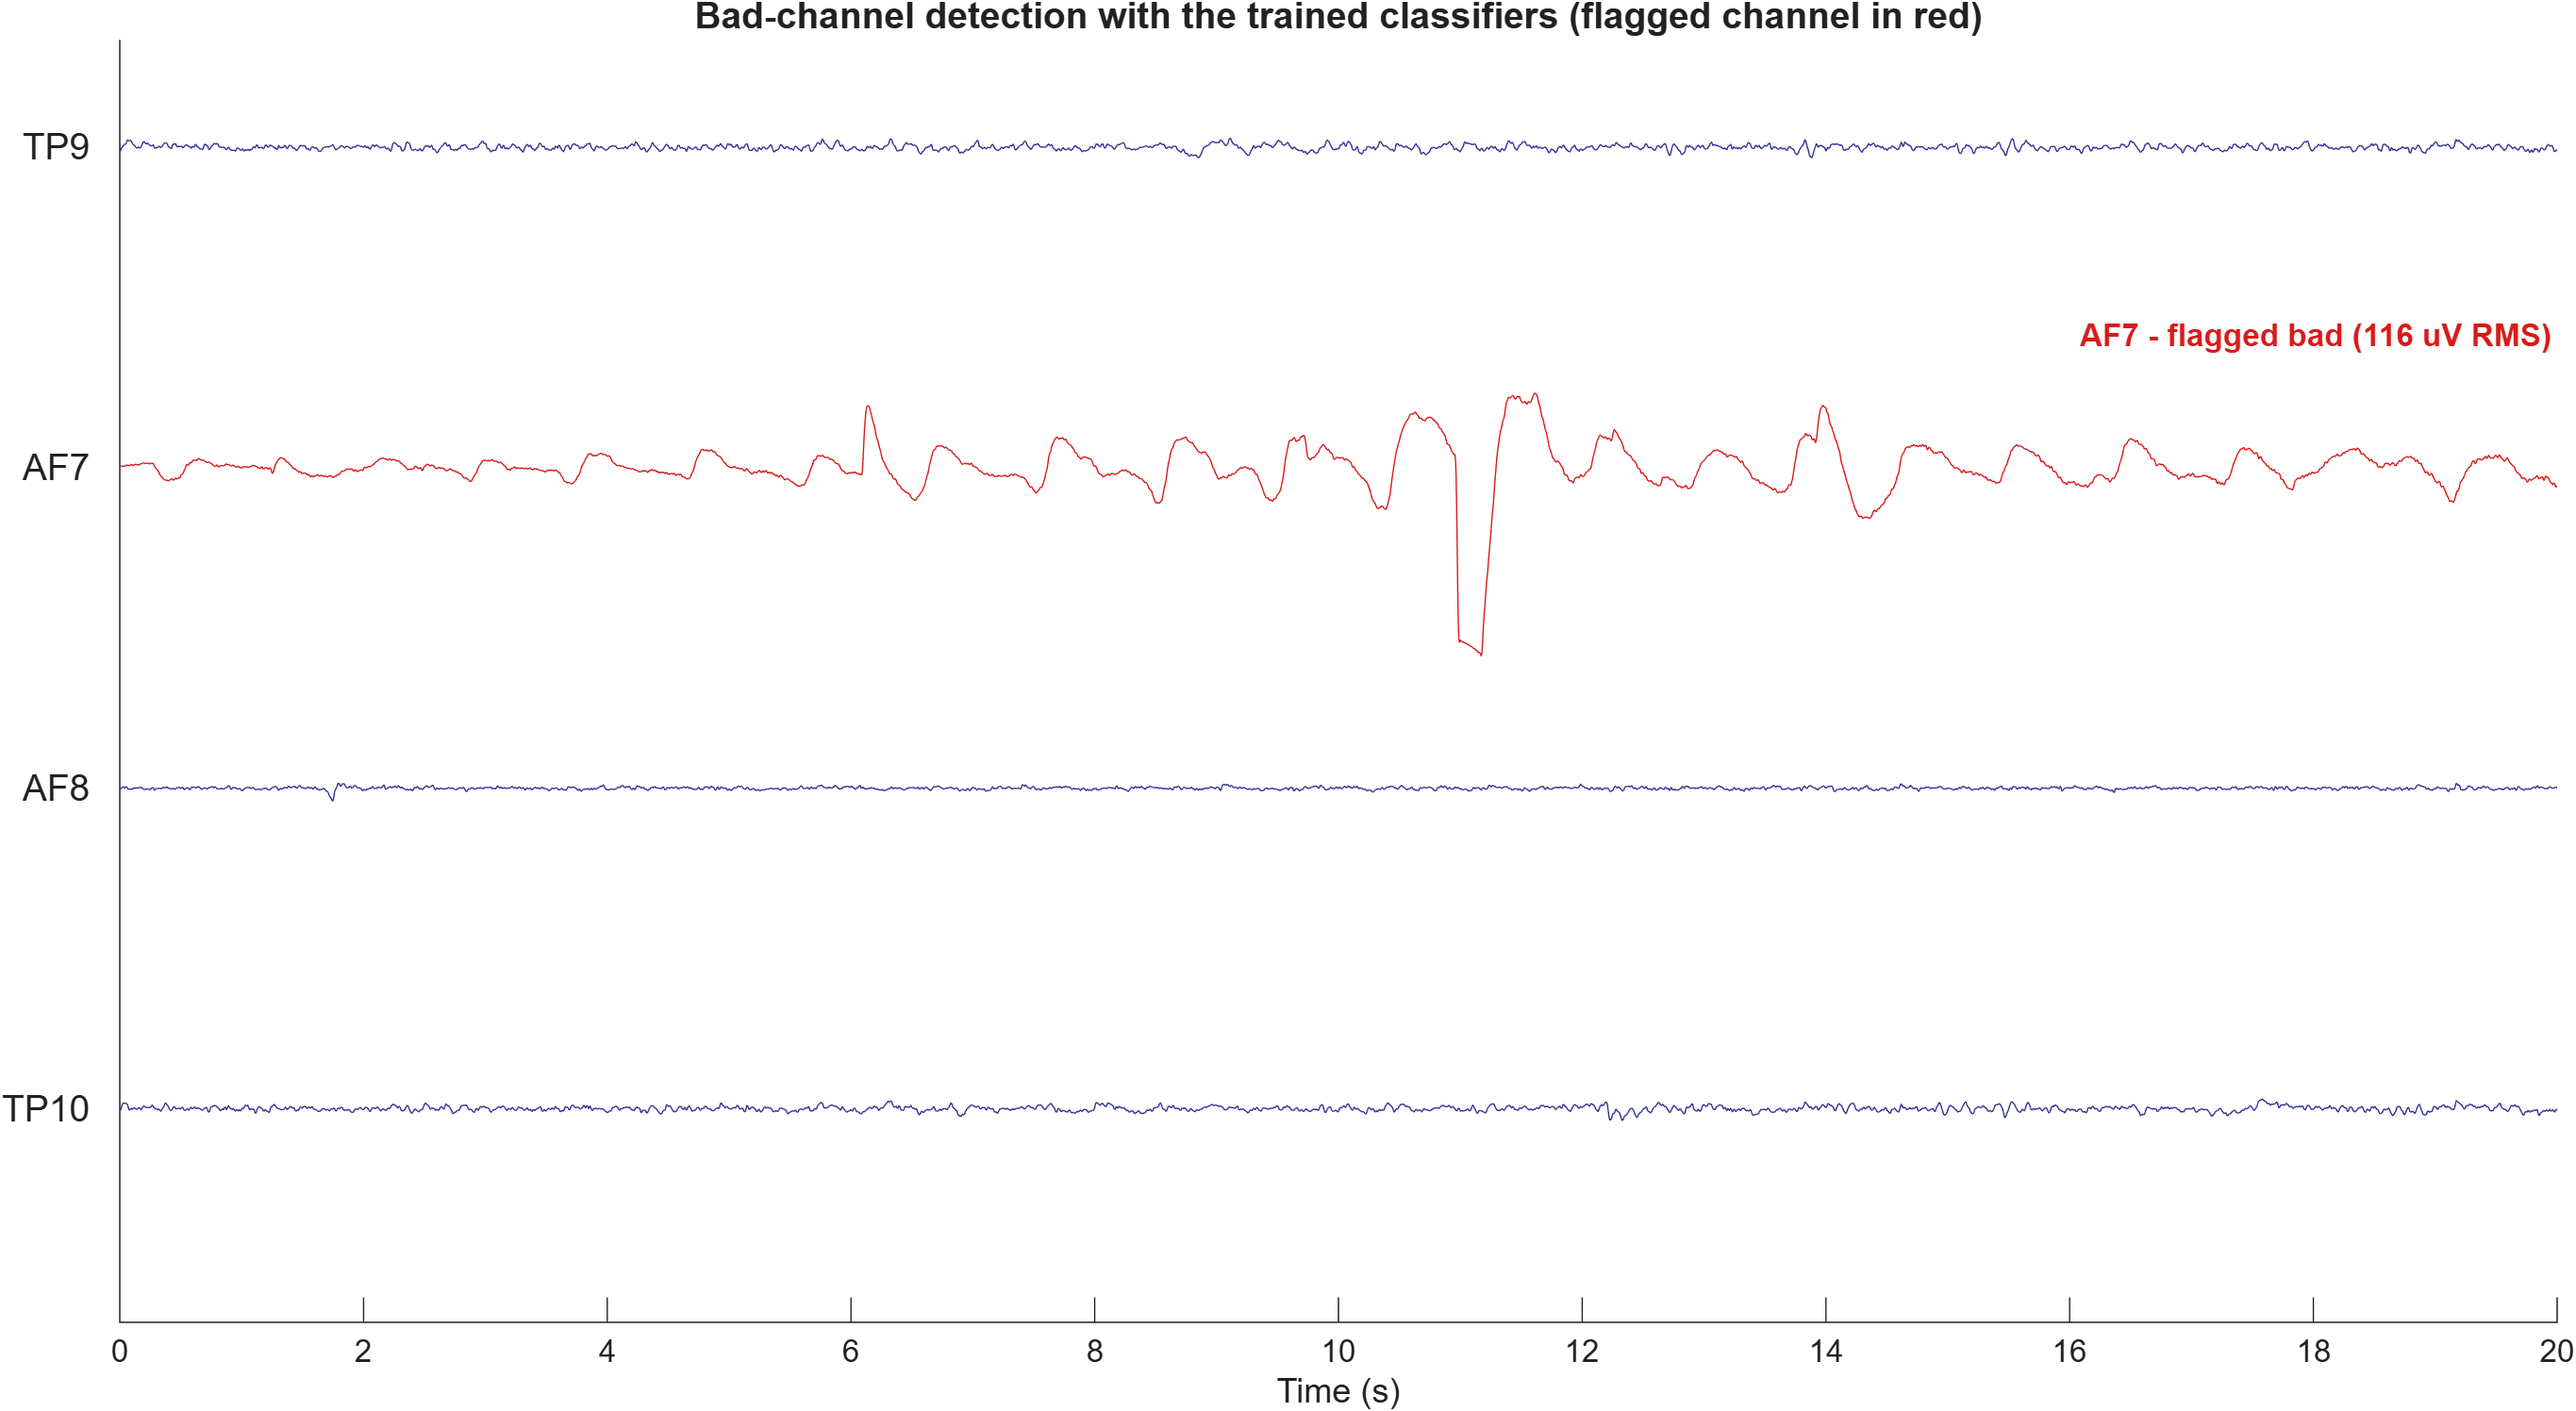
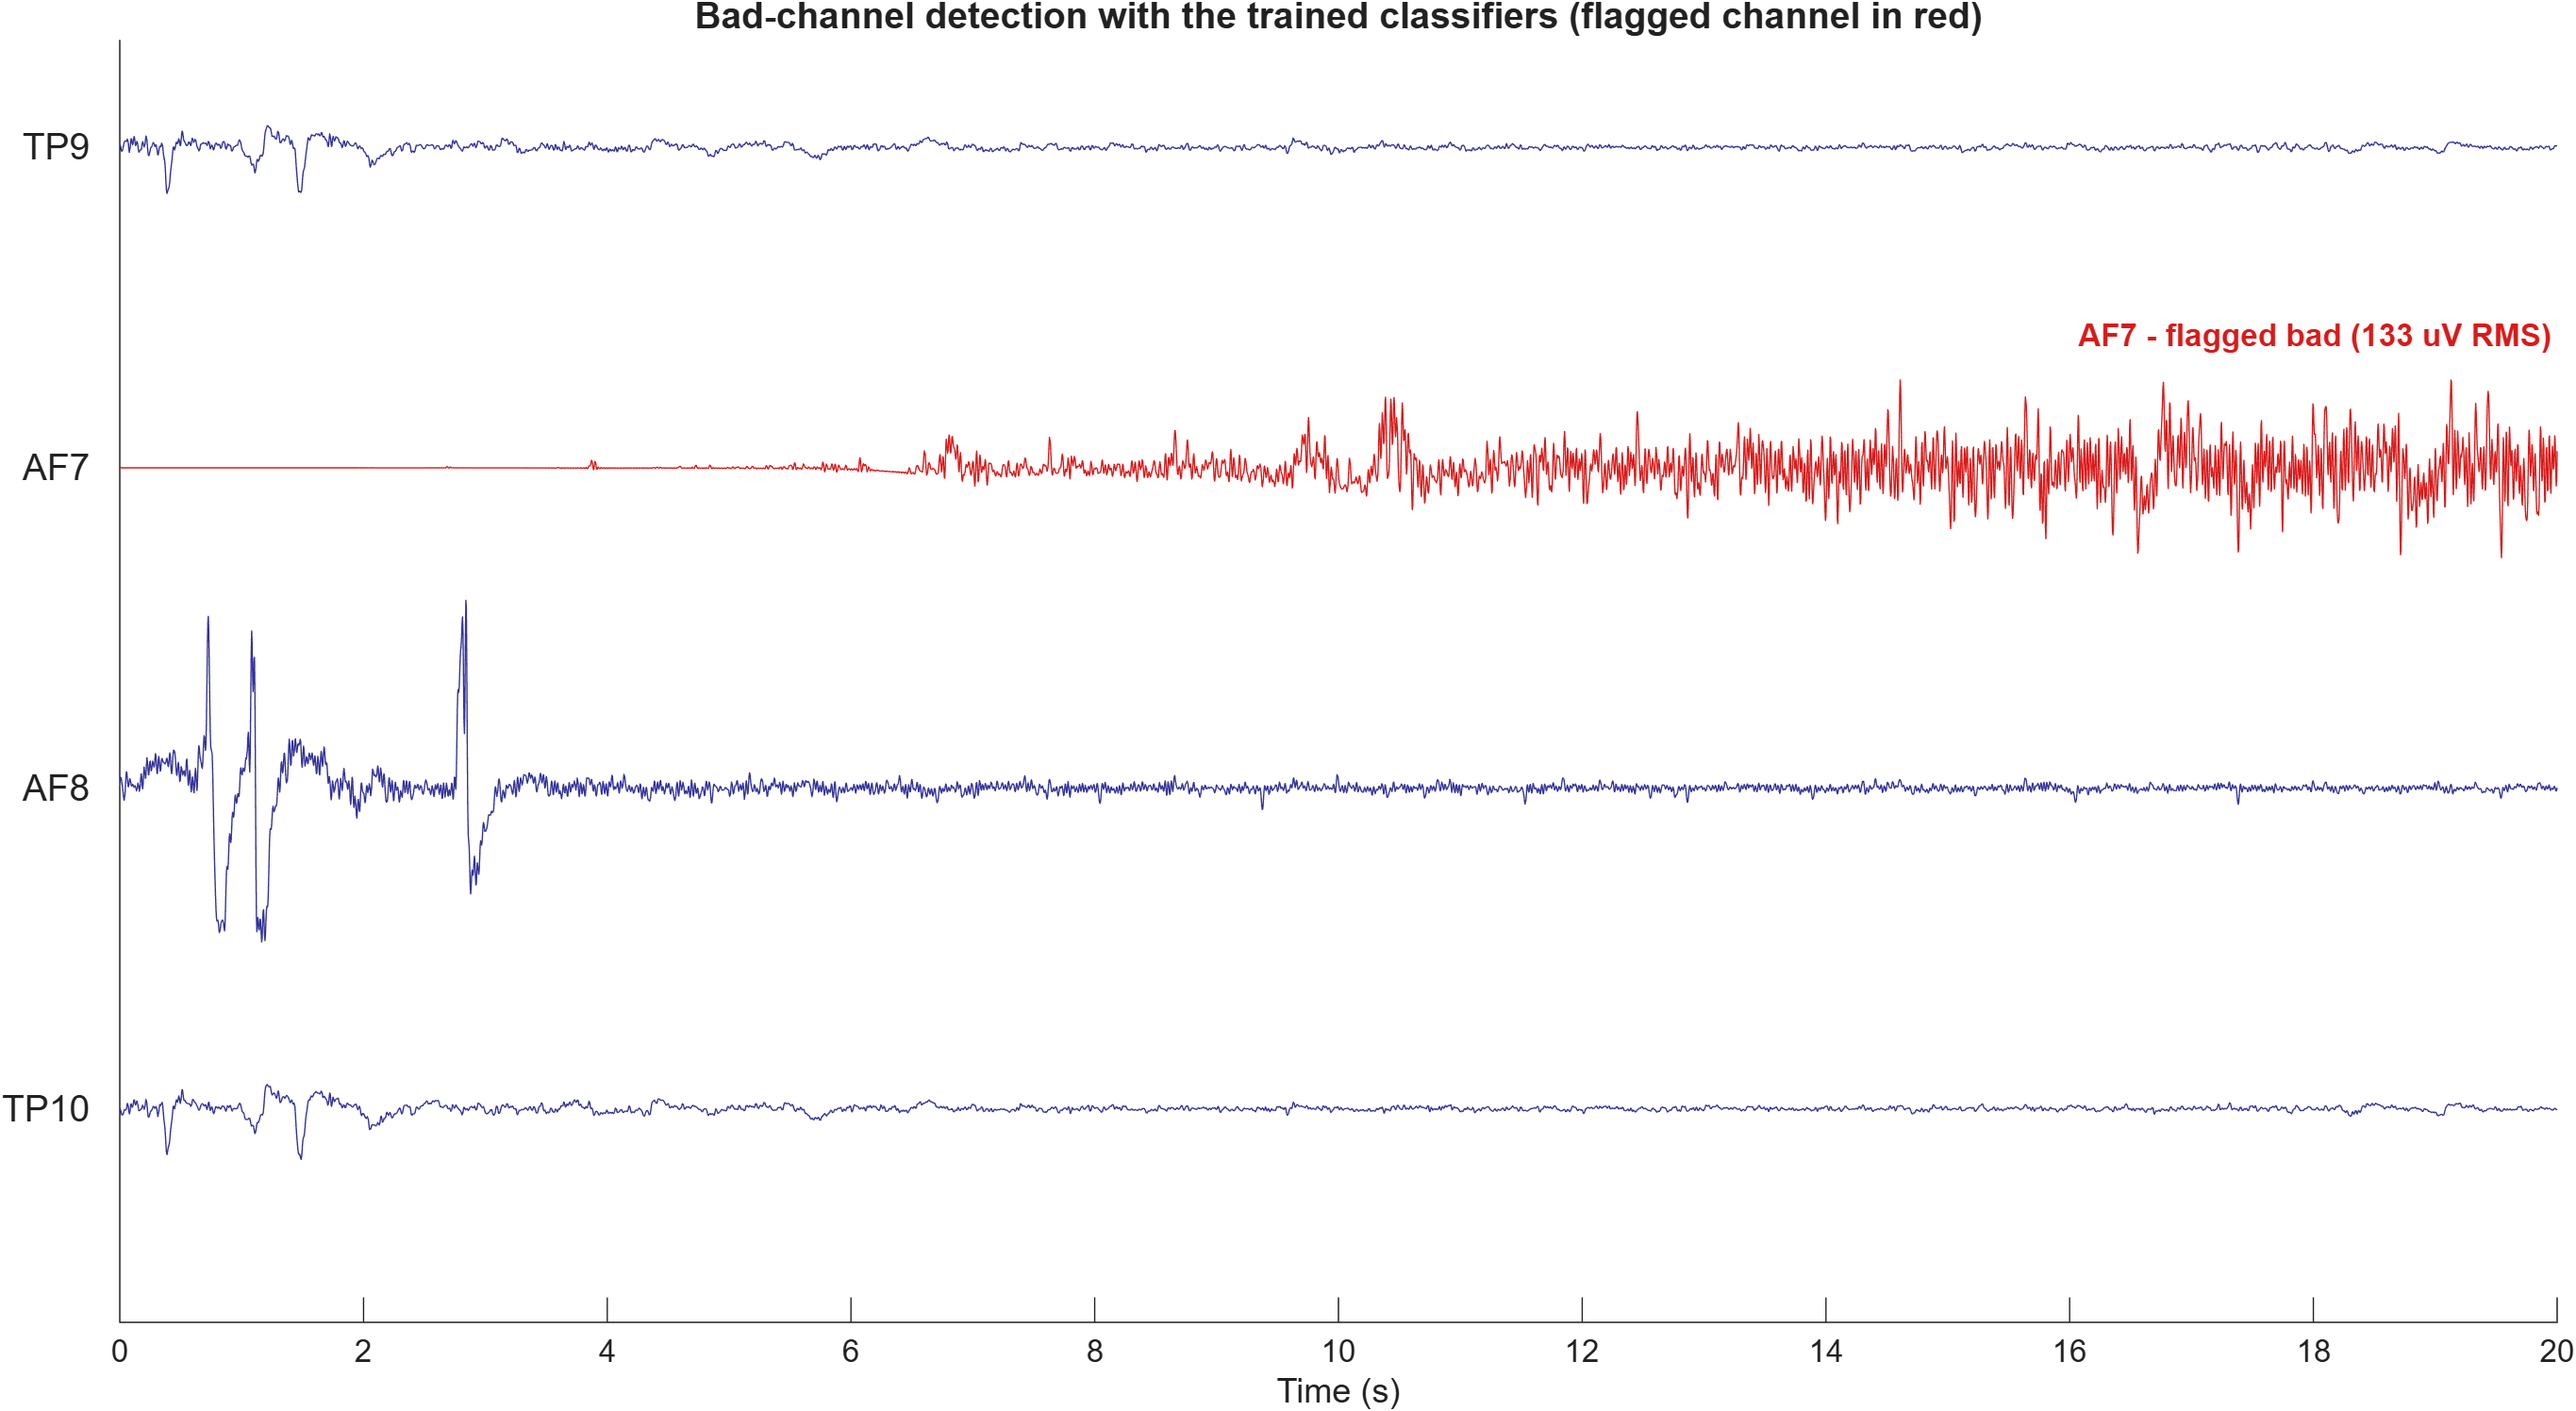
Example figure: swap to c5866c8aa5 recording (AF7 133 uV RMS vs 11 uV TPs)

diff --git a/README.md b/README.md
@@ -79,7 +79,7 @@ I manually labeled 3,000 30-second EEG segments recorded with MUSE headsets as g
 
 Flagged channels are reported, not removed automatically: check them visually (e.g. Plot > Channel data scroll; the classifiers run on the data band-pass filtered 1-45 Hz on the fly (the training filter, with a 45 Hz low-pass that excludes European 50 Hz line noise), the same filter as used for training), remove the channels you confirm are bad (e.g. `EEG = pop_select(EEG, 'nochannel', {'AF7'});`), and re-run or re-reference as needed.
 
-Example output on a real eyes-open rest recording (Muse IDL study): the AF7 channel (red, ~116 uV RMS after 1-45 Hz filtering) is flagged bad by the classifiers while the three low-RMS channels TP9 (7 uV), AF8 (4 uV), and TP10 (9 uV) are kept.
+Example output on a real rest recording (Muse IDL study): the AF7 channel (red, 133 uV RMS after 1-45 Hz filtering, noisy from ~6 s on) is flagged bad by the classifiers while TP9, AF8, and TP10 are kept.
 
 ![Bad channel flagged in red](docs/badchan_example.png)
 
